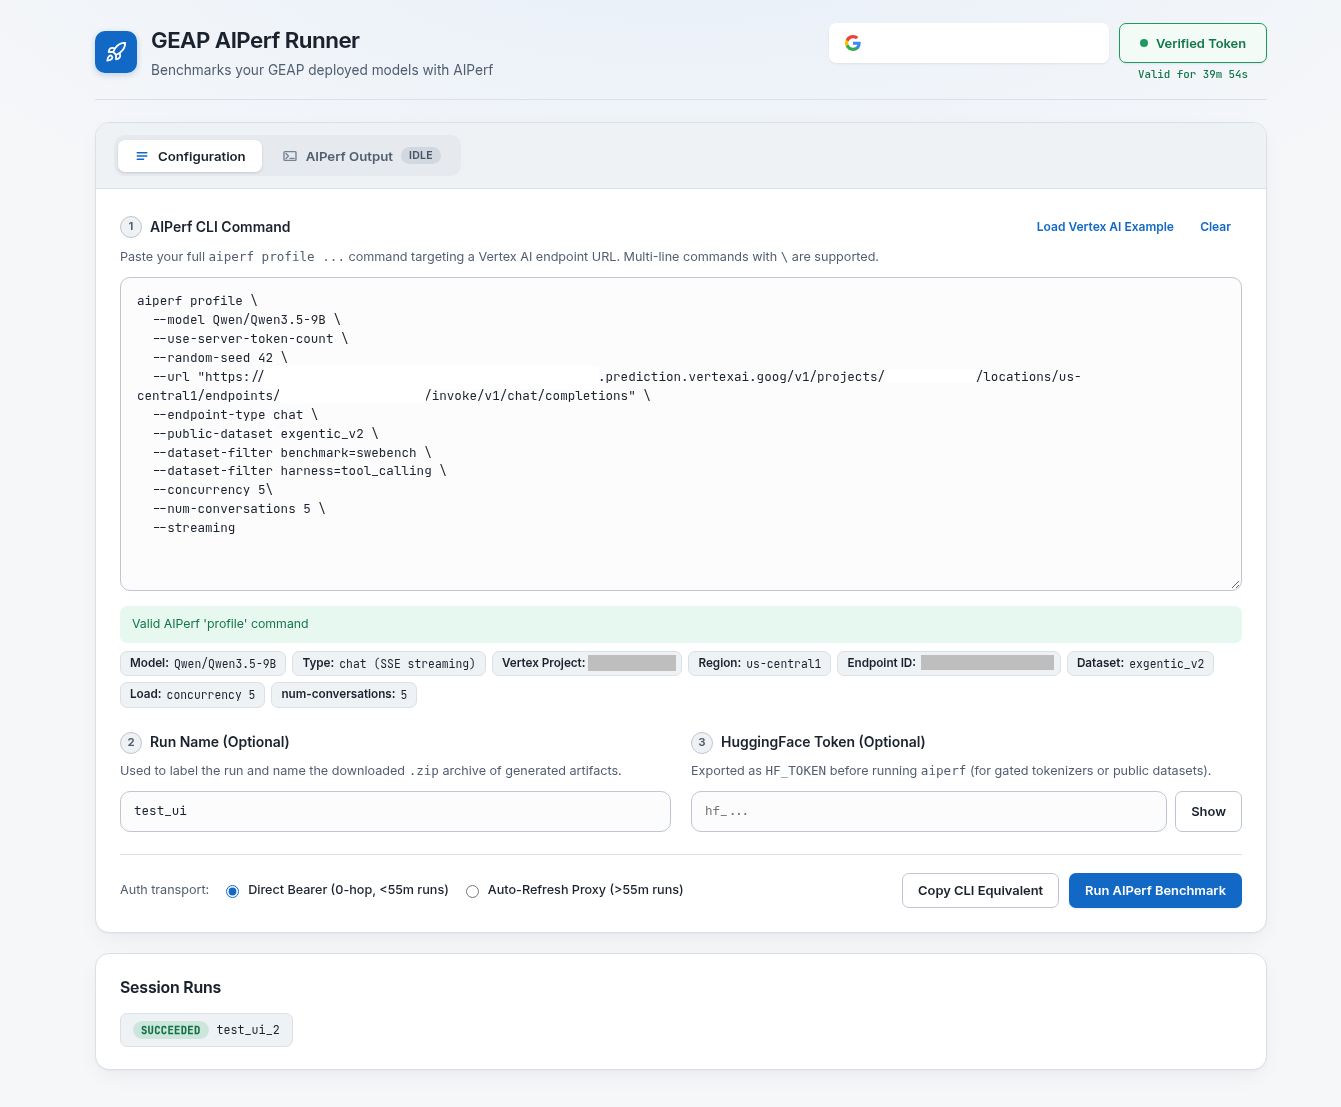
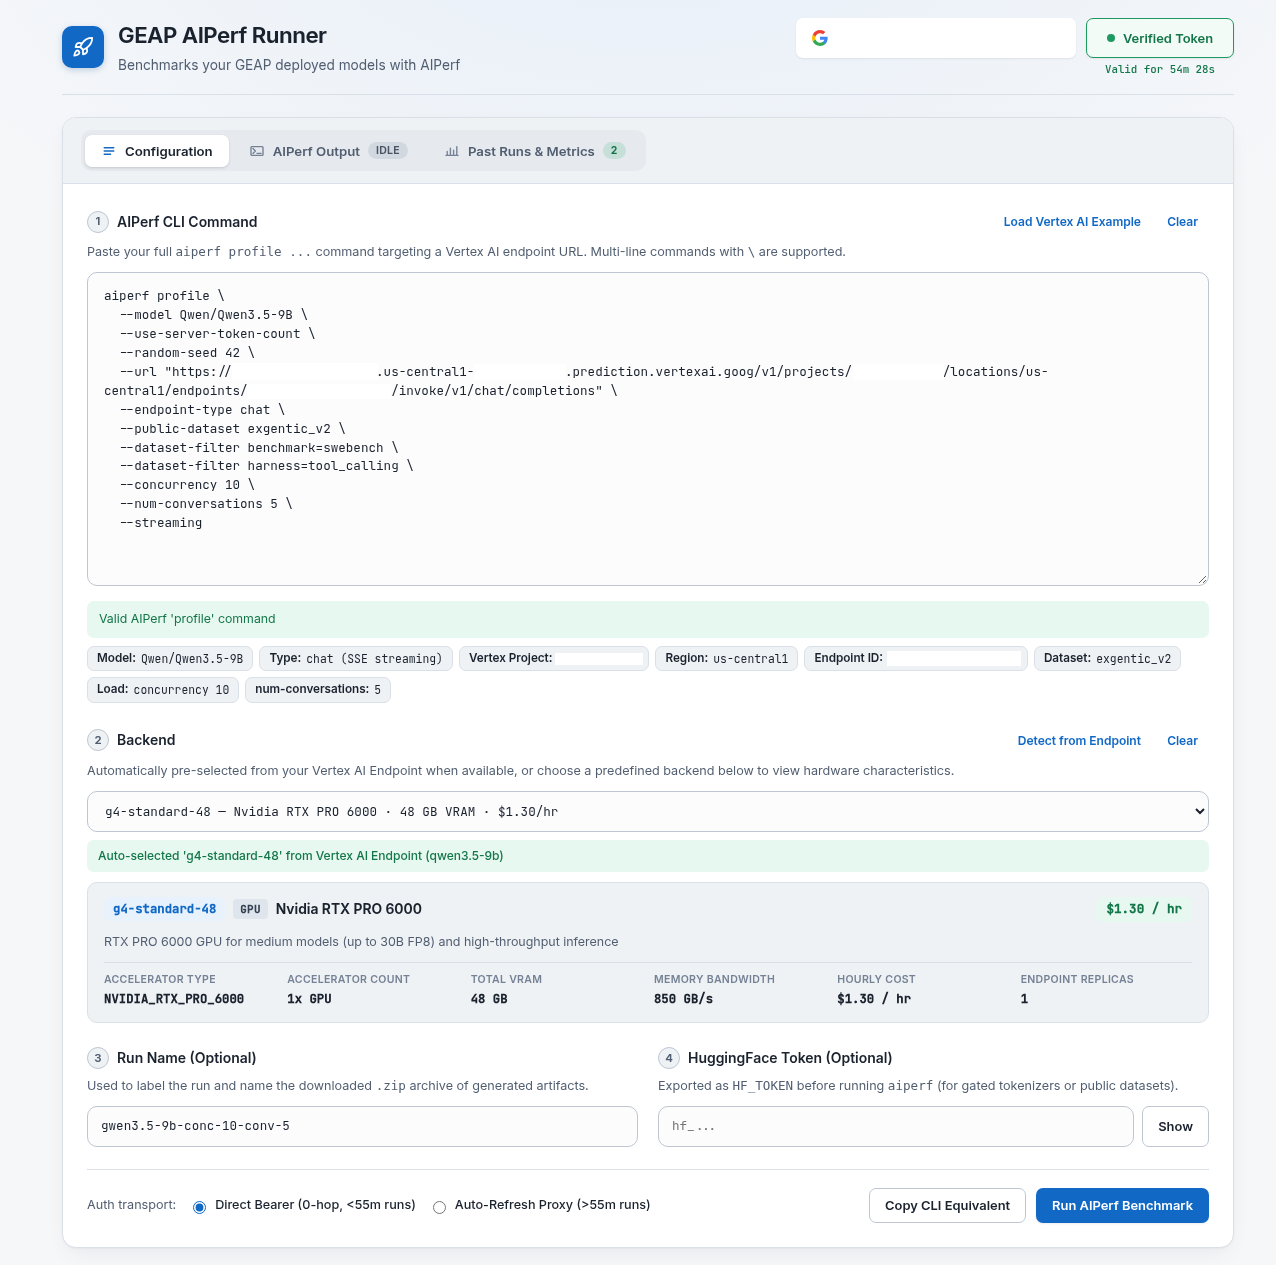
Update README with Configuration, Single-Run, and Multi-Run UI screenshots

diff --git a/README.md b/README.md
@@ -16,7 +16,7 @@
 
 Lightweight Web & CLI wrapper for running **NVIDIA AIPerf** (`aiperf`) LLM performance benchmarks against **Google Cloud Vertex AI Endpoints** authenticated with **your Google Account (OAuth 2.0)**.
 
-![GEAP AIPerf Runner](public/readme_illustration.png)
+![Configuration Tab — CLI Command & Backend Selector](public/readme_illustration.png)
 
 ## Features
 
@@ -39,7 +39,12 @@ Lightweight Web & CLI wrapper for running **NVIDIA AIPerf** (`aiperf`) LLM perfo
 - **Past Runs & Side-by-Side Metrics Analysis (`artifacts/`)**:
   - Dedicated **Past Runs & Metrics** tab that automatically discovers historical runs inside `artifacts/` (parsing `profile_export_aiperf.json`, `profile_export_aiperf.csv` fallback, nested sweep folders, and per-request `profile_export.jsonl` traces, while flagging cancelled/incomplete log-only runs).
   - **Single-Run Analysis**: Select one run to inspect KPI tiles, an interactive SVG **Latency Percentile Spread** (`p25–p75` IQR, `p50` median, `avg`, `p90`/`p99` tail markers), **Prefill (`TTFT`) vs. Decode Time Composition**, **Per-Request Latency Histograms & Token-Length Scaling Scatter Plots**, and a full statistical table (`avg`, `p50`, `p90`, `p95`, `p99`, `min`, `max`, `std`).
+
+    ![Single-Run Analysis — Latency Percentile Spread & Prefill vs. Decode Composition](public/readme_illustration_2.png)
+
   - **Multi-Run Comparison**: Select two or more runs to compare metrics side-by-side at any statistic (`avg`, `p50`, `p90`, `p95`, `p99`, `min`, `max`) with **Grouped Latency & Throughput Bar Charts**, **Tail-Latency Percentile Curves (`p10` → `p99`)**, a **Throughput vs. Latency Pareto Frontier** plot, configurable **Baseline** `% Δ` improvement/regression badges, category filters, per-run `.zip` downloads, and one-click **Export CSV**.
+
+    ![Multi-Run Comparison — Side-by-Side Latency & Throughput Comparison](public/readme_illustration_3.png)
 
 ## Quick Start
 
